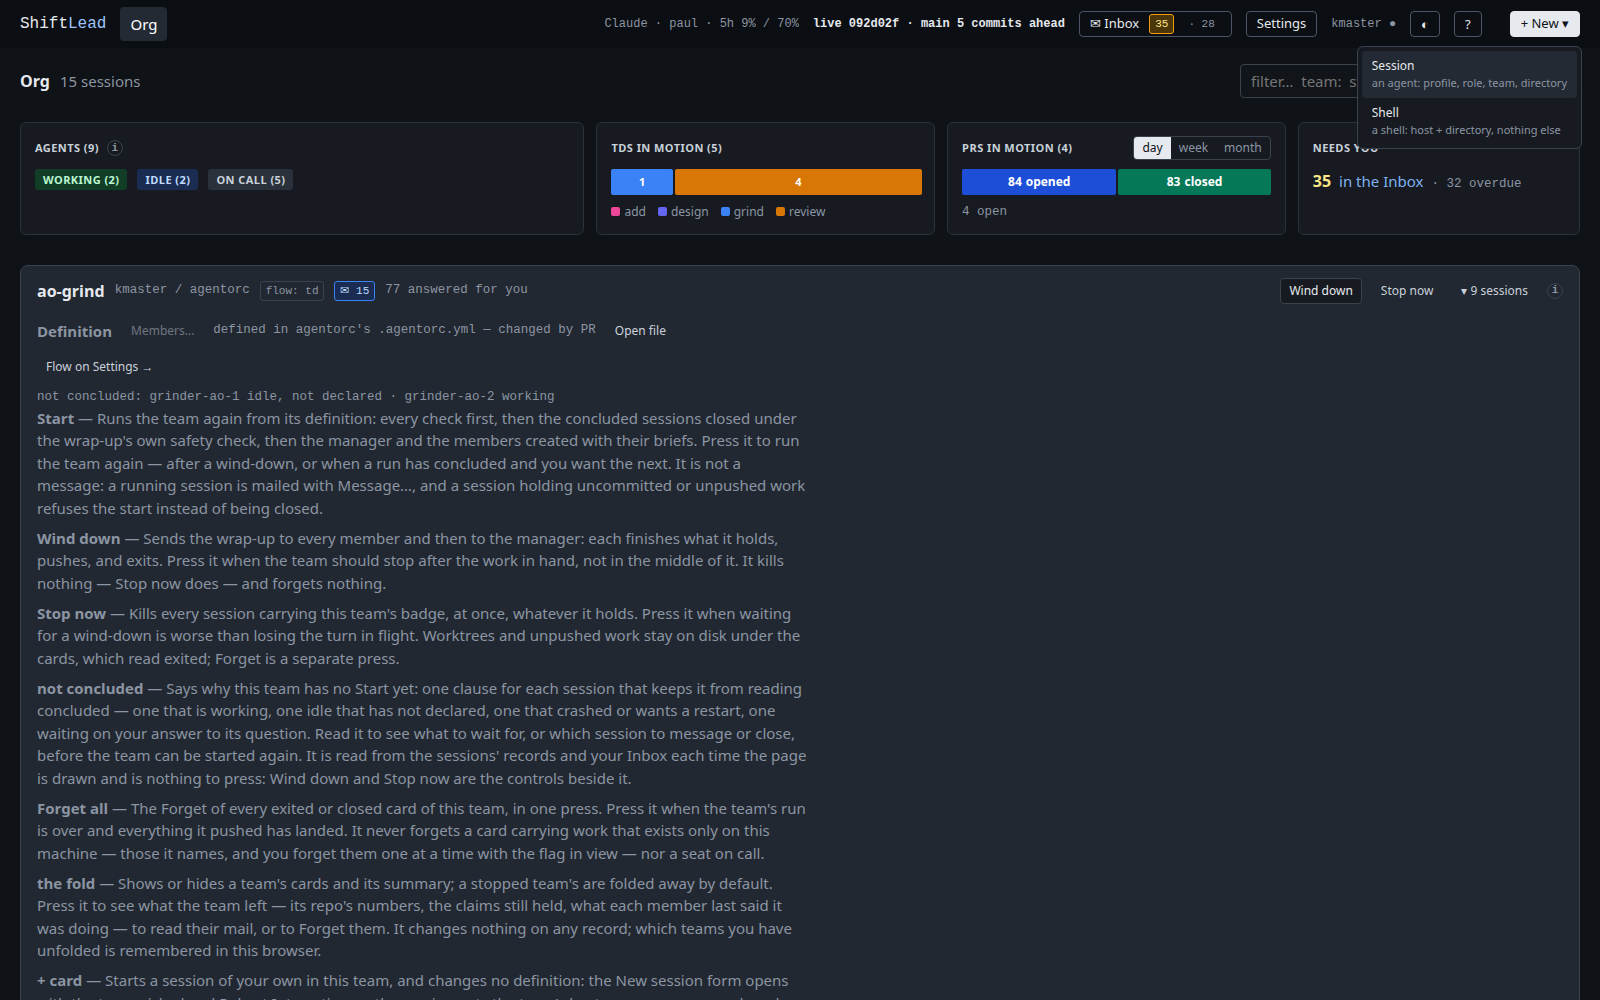
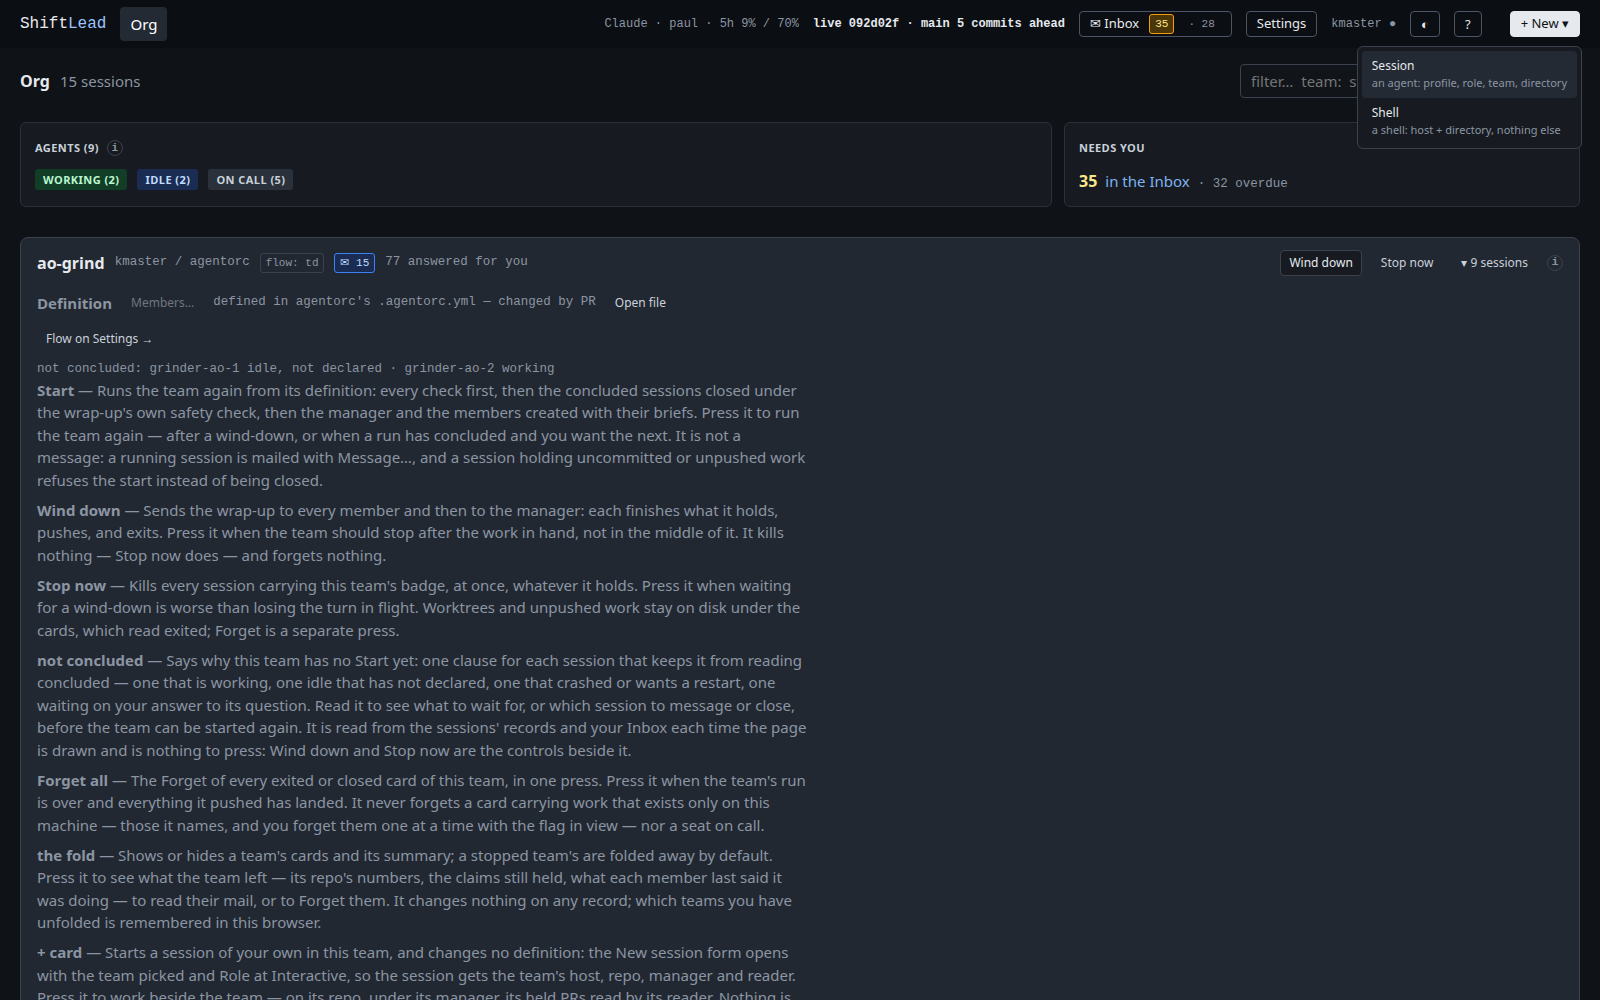
TD-418 round 2, TD-420: lane chips in the kind's colour, + card and Doing wording, rollup and summary trims; the PR counts that disagree split out

Changed region(s): [[0.0, 0.124, 1.0, 1.0], [0.9062, 0.155, 0.9375, 0.186]]

diff --git a/docs/mockups/reviews/2026-10-08-org-declutter.html b/docs/mockups/reviews/2026-10-08-org-declutter.html
@@ -30,6 +30,11 @@ h1 { font-size: 26px; margin: 0; text-wrap: balance; } h2 { font-size: 18px; mar
 .chg::before { counter-increment: c; content: counter(c); font: 600 14px var(--mono); color: var(--accent); }
 .chg b { display: block; } .chg p { margin: 2px 0 0; color: var(--muted); grid-column: 2; }
 .chg .t { grid-column: 2; }
+.chips { grid-column: 2; display: flex; gap: 14px; flex-wrap: wrap; margin: 8px 0 2px; padding: 10px 12px; background: #151b24; border-radius: 6px; }
+.cs { display: inline-flex; align-items: center; gap: 8px; color: #c9d1db; font-size: 13px; }
+.lc { font: 600 11px var(--mono); padding: 1px 6px; border-radius: 3px; border: 1px solid; color: #e3e8ef; }
+.lc.soft.pk { background: rgba(59,130,246,.22); border-color: rgba(59,130,246,.7); } .lc.solid.pk { background: #3b82f6; border-color: #3b82f6; color: #fff; }
+.lc.soft.df { background: rgba(99,102,241,.22); border-color: rgba(99,102,241,.7); } .lc.solid.df { background: #6366f1; border-color: #6366f1; color: #fff; }
 ul.obs { margin: 0; padding-left: 20px; display: grid; gap: 6px; } ul.obs li { max-width: 80ch; }
 .ask { background: var(--warn-bg); border: 1px solid var(--warn); border-radius: 6px; padding: 14px 18px; }
 .ask h2 { color: var(--warn); }
@@ -43,14 +48,14 @@ ul.obs { margin: 0; padding-left: 20px; display: grid; gap: 6px; } ul.obs li { m
 
   <section>
     <div class="tabs" role="tablist">
-      <button role="tab" id="t-after" aria-selected="true" data-img="2026-10-08-org-declutter-after.png" data-cap="After: one header row per team, aligned bars, no mine/command controls, lane counts on the member cards.">After</button>
+      <button role="tab" id="t-after" aria-selected="true" data-img="2026-10-08-org-declutter-after.png" data-cap="After: one header row per team, aligned bars, lane counts on the member cards, the rollup trimmed to Agents and Needs you while one team is live.">After</button>
       <button role="tab" id="t-before" aria-selected="false" data-img="2026-10-08-org-declutter-before.png" data-cap="Before: the live page as it stands.">Before</button>
       <button role="tab" id="t-open" aria-selected="false" data-img="2026-10-08-org-declutter-after-open.png" data-cap="After, with the team's i panel and the + New menu open: the definition (Members…, where it is defined, Open file, the flow link) and not concluded now live in the panel.">After, menus open</button>
       <button role="tab" id="t-afull" aria-selected="false" data-img="2026-10-08-org-declutter-after-full.png" data-cap="After, the whole page, the stopped teams included.">After, full page</button>
       <button role="tab" id="t-bfull" aria-selected="false" data-img="2026-10-08-org-declutter-before-full.png" data-cap="Before, the whole page.">Before, full page</button>
     </div>
     <div class="shot" style="margin-top:12px"><img id="shot" src="2026-10-08-org-declutter-after.png" alt="The Org page after the proposed changes"></div>
-    <div class="cap" id="cap">After: one header row per team, aligned bars, no mine/command controls, lane counts on the member cards.</div>
+    <div class="cap" id="cap">After: one header row per team, aligned bars, lane counts on the member cards, the rollup trimmed to Agents and Needs you while one team is live.</div>
   </section>
 
   <section>
@@ -62,27 +67,35 @@ ul.obs { margin: 0; padding-left: 20px; display: grid; gap: 6px; } ul.obs li { m
       <div class="chg"><span class="t"><b>Shell and + New session merge into + New ▾</b></span><p>One button with two choices, Session and Shell. A team's own sessions still start from its + card.</p></div>
       <div class="chg"><span class="t"><b>The team header fits on one row</b></span><p>The header keeps the name, host / repo, a <code>flow: td</code> chip (its stages in the tooltip, linked to Settings), the marks, Wind down, Stop now, the fold and the i. Dropped from the header: the second "9 sessions", the flow strip, and the flow dropdown (Settings already has the same picker per team). Members…, "defined in … changed by PR", Open file and <em>not concluded:</em> move into the i panel under a Definition line. <em>flow changed · Apply</em> stays on the header because it asks you to act.</p></div>
       <div class="chg"><span class="t"><b>✉ n shows folded or not</b></span><p>The team's unread total sits beside the flow chip in both states. TD-071 drew it only while folded; that rule is reversed.</p></div>
-      <div class="chg"><span class="t"><b>The lanes line leaves the repo facet</b></span><p>Its full text becomes an i on TECHNICAL DEBT. Each member card whose lane it is carries its count (<code>lane 18</code> on the grinders, <code>lane 0</code> on the designer), tinted amber when that member is out of work with entries in its lane.</p></div>
+      <div class="chg"><span class="t"><b>The lanes line leaves the repo facet</b></span><p>Its full text becomes an i on TECHNICAL DEBT. Each member card whose lane holds entries carries the count in the repo bar's colour for that kind: blue for pickable on a grinder, purple for design-first on the designer. The chip is a soft tint while the member is busy and turns solid when it is out of work with entries waiting, so the only loud chip is the one that needs attention. No chip at 0.</p>
+        <div class="chips" aria-label="chip states">
+          <span class="cs"><span class="lc soft pk">18</span> grinder, working</span>
+          <span class="cs"><span class="lc solid pk">18</span> grinder, out of work</span>
+          <span class="cs"><span class="lc soft df">9</span> designer, working</span>
+          <span class="cs"><span class="lc solid df">9</span> designer, out of work</span>
+        </div>
+        <p>The designer's count is its lane's, not the repo bar's: in this capture the bar shows 9 design-first, but none of them is in ao-grind's lanes (the lanes line read <em>0 design-first</em>), so the designer card shows no chip.</p></div>
+      <div class="chg"><span class="t"><b>The + card reads New session</b></span><p>"your session in ao-grind" becomes "New session". The team card is the context.</p></div>
+      <div class="chg"><span class="t"><b>TECHNICAL DEBT (56 OPEN) stays on one line</b></span><p>Section labels never wrap. Where the header runs out of room, the window picker drops to its own line on the right, not the label.</p></div>
+      <div class="chg"><span class="t"><b>Doing loses "the team's ao doing calls"</b></span><p>The label and the rows say it.</p></div>
+      <div class="chg"><span class="t"><b>The rollup drops what a lone team already says</b></span><p>While one team is live, the rollup keeps Agents and Needs you; its TDs-in-motion and PR facets come back with a second live team.</p></div>
+      <div class="chg"><span class="t"><b>A team with nothing live draws no summary</b></span><p>dc-grind's "no repo here" and "nothing claimed" boxes go; its header and Start stay.</p></div>
+      <div class="chg"><span class="t"><b>The summary's columns follow their content</b></span><p>Repo and Doing get more width, TDs in motion less (1.15 : 0.85 : 1.2). The cost: TD titles in that facet truncate sooner; the reference and holder stay whole.</p></div>
     </div>
   </section>
 
   <section>
-    <h2>Seen while capturing, not mocked</h2>
+    <h2>Split out</h2>
     <ul class="obs">
-      <li><b>Two PR counts that disagree.</b> The rollup reads 84 opened / 83 closed (93 / 92 in your screenshot) and the repo facet reads 84 / 83 here but 85 / 85 there. Whatever the rollup sums, the page should say what it covers.</li>
-      <li><b>The rollup repeats a lone live team.</b> With one team live, its TDs-in-motion and PR facets restate that team's own facets.</li>
-      <li><b>A stopped team draws empty facets.</b> dc-grind shows "no repo here" and "nothing claimed" in full-height boxes while stopped.</li>
-      <li><b>Equal columns waste the summary row.</b> TDs in motion is mostly empty when it holds a few rows, while Doing next to it is cut off.</li>
-      <li><b>The footnote under the page</b> ("Inside a team: the manager, then…") could move into the page's own help.</li>
+      <li><b>Two PR counts that disagree</b> is its own entry, TD-420: the rollup read 93 / 92 in your screenshot while the repo facet read 85 / 85, and the page does not say what the rollup sums.</li>
+      <li><b>The footnote under the page</b> ("Inside a team: the manager, then…") is left for the look-and-feel round.</li>
     </ul>
   </section>
 
   <section class="ask">
-    <h2>Open calls for you</h2>
+    <h2>Before the design PR</h2>
     <ol>
-      <li>Is <code>lane n</code> the right chip text on a card, or should it name the kind (<code>18 pickable</code> / <code>0 design-first</code>)?</li>
-      <li>Should the observations above join this round, or wait for the second look-and-feel round?</li>
-      <li>When flows get their own pages, the <code>flow: td</code> chip links to the flow's page instead of Settings. Nothing else in this round depends on it.</li>
+      <li>Anything on this round you'd change? If not, the design PR for §4.5 / §4.5a goes next, then a build entry.</li>
     </ol>
   </section>
 </div>

diff --git a/docs/mockups/reviews/org-declutter-src/after.js b/docs/mockups/reviews/org-declutter-src/after.js
@@ -8,8 +8,10 @@
     .bseg, .blk { min-height: 26px; height: 26px; font-weight: 600; }
     .flowchip { text-decoration: none; cursor: pointer; }
     .tgroup .ghead .foldmail { display: inline-block !important; }
-    .lanechip { margin-left: 6px; flex: none; } .sc .r2 .cline { min-width: 0; overflow: hidden; text-overflow: ellipsis; white-space: nowrap; } .frepo .fhead { flex-wrap: nowrap; }
-    .lanechip.warnish { color: var(--warn-fg); background: var(--warn-bg); border-color: var(--warn-line); }
+    .lanechip { margin-left: 6px; flex: none; } .sc .r2 .cline { min-width: 0; overflow: hidden; text-overflow: ellipsis; white-space: nowrap; } .facet .kind { white-space: nowrap; } .frepo .fhead > .seg { margin-left: auto; }
+    .lanechip { font-weight: 600; color: var(--fg); } .lanechip.k-pickable { background: color-mix(in srgb, var(--k-pickable) 22%, transparent); border-color: color-mix(in srgb, var(--k-pickable) 70%, transparent); } .lanechip.k-design { background: color-mix(in srgb, var(--k-design) 22%, transparent); border-color: color-mix(in srgb, var(--k-design) 70%, transparent); } .lanechip.solid.k-pickable { background: var(--k-pickable); color: var(--seg-fg); } .lanechip.solid.k-design { background: var(--k-design); color: var(--seg-fg); }
+    .tsum { grid-template-columns: minmax(0, 1.15fr) minmax(0, .85fr) minmax(0, 1.2fr); }
+    .rollup.lone { grid-template-columns: 2fr 1fr; }
     .defblock { display: flex; gap: 10px; align-items: center; flex-wrap: wrap; margin-bottom: 8px; }
     .newmenu { position: absolute; right: 18px; top: 46px; background: var(--card); border: 1px solid var(--border); border-radius: 6px; padding: 4px; display: flex; flex-direction: column; z-index: 9; min-width: 210px; }
     .newmenu a { padding: 6px 10px; color: var(--fg); text-decoration: none; font-size: var(--t-small); border-radius: 4px; }
@@ -67,8 +69,16 @@
     $$(`.tgroup[data-team="${team}"] .card`).forEach((c) => {
       const role = $('.cline', c)?.textContent || ''; const r2 = $('.r2', c); if (!r2) return;
       const out = /out of work/.test(role);
-      if (/^Grinder/.test(role)) ($('.grow', r2) || r2).insertAdjacentHTML('afterend', `<span class="badge lanechip${out && +pk ? ' warnish' : ''}" title="unheld entries in its lane">lane ${pk}</span>`);
-      if (/^Designer/.test(role)) ($('.grow', r2) || r2).insertAdjacentHTML('afterend', `<span class="badge lanechip${out && +df ? ' warnish' : ''}" title="design-first entries in its lane">lane ${df}</span>`);
+      if (/^Grinder/.test(role)) ($('.grow', r2) || r2).insertAdjacentHTML('afterend', (+pk ? `<span class="badge lanechip k-pickable${out ? ' solid' : ''}" title="${pk} pickable entries in its lane">${pk}</span>` : ''));
+      if (/^Designer/.test(role)) ($('.grow', r2) || r2).insertAdjacentHTML('afterend', (+df ? `<span class="badge lanechip k-design${out ? ' solid' : ''}" title="${df} design-first entries in its lane">${df}</span>` : ''));
     });
   });
+  // round 2: the + card says New session; Doing loses its gloss
+  $$('.plusgo .meta').forEach((m) => { m.textContent = 'New session'; });
+  $$('.fv[data-fv="doing"] .fhead > .meta').forEach((m) => m.remove());
+  // a team with nothing live draws no summary
+  $$('.tgroup[data-live="0"] .tsum').forEach((t) => t.remove());
+  // the rollup drops the TD and PR facets while one team is live: that team's own facets say it
+  const live = $$('.tgroup').filter((g) => +g.dataset.live > 0);
+  if (live.length === 1) { const fs = $$('.rollup > .facet'); fs[1]?.remove(); fs[2]?.remove(); $('.rollup')?.classList.add('lone'); }
 })();

diff --git a/docs/technical_debt.md b/docs/technical_debt.md
@@ -71,8 +71,9 @@ Fields: Owner = anchor | designer | grinder | paul | dev-cadence; Kind = build |
 | TD-415 | Tests do not pin the CLI half of `ao msg --pick <n> "text"` (#1282): the inbox's first-line read of a picked reply, the blank-words guard, and extra addressee words | Low | Open |
 | TD-416 | Tests do not pin the home's blank-words refusal of a picked answer followed by whitespace only (#1282) | Low | Open |
 | TD-417 | Tests do not pin the Focus rail's behaviour (#1286): put away, bring back, a glyph opening its card, the remembered choice — only the pure glyph list, CSS strings and template text are tested | Low | Open |
-| TD-418 | The Org page is cluttered: mine and show command runs out of place, the rollup's bars unaligned, a team header of three lines that says its session count and its flow twice, the lanes line in the repo facet | Medium | Open — mockup reviewed with Paul 2026-10-08; three calls open |
+| TD-418 | The Org page is cluttered: mine and show command runs out of place, the rollup's bars unaligned, a team header of three lines that says its session count and its flow twice, the lanes line in the repo facet | Medium | Open — mockup reviewed with Paul 2026-10-08, two rounds; his last look before the design PR |
 | TD-419 | A Focus attachment is never deleted: `~/.agentorc/attachments/<session>/` outlives the session's close and its Forget | Low | Open |
+| TD-420 | The Org rollup's PRs in motion disagrees with the team's repo facet (93 / 92 against 85 / 85 on 2026-10-08) and the page does not say what the rollup sums | Low | Open |
 
 ---
 
@@ -1235,13 +1236,13 @@ Done when: a hand-started unattended session shows when it will stop and stops t
 **Added:** 2026-10-08 (ao-paul, a UI/UX review with Paul)
 **Owner:** paul
 **Kind:** decision
-**Status:** Open — the mockup is up (`docs/mockups/reviews/2026-10-08-org-declutter.html`, published at https://claude.ai/artifact/B8ybKFKeu3n1n4PUzYgktP); Paul approved the seven changes below as recommended and has three calls open on the page. Next: a design PR for §4.5 / §4.5a (and the history), then a build entry.
-**Blocked by:** decision (paul) — the three calls on the mockup page: the lane chip's words, whether the observations join this round
+**Status:** Open — the mockup is up (`docs/mockups/reviews/2026-10-08-org-declutter.html`, published at https://claude.ai/artifact/B8ybKFKeu3n1n4PUzYgktP), two rounds with Paul on 2026-10-08: the seven changes below as recommended, then his round 2 (the lane chip in the kind's colour, the + card's words, the debt label on one line, Doing's gloss gone, and three of the observations taken in). Next, after his last look: a design PR for §4.5 / §4.5a (and the history), then a build entry.
+**Blocked by:** decision (paul) — the last look at round 2 on the mockup page
 **Location:** `src/agentorc/ui/templates/org.html`, `group_head.html`, `rollup.html`, `lanes_line.html`, `team_summary.html`, `card.html`, `base.html`; `static/app.css`, `app.js`; design §4.5, §4.5a
 
 **Why:** Paul's screenshot of the live Org page, 2026-10-08, and his list: the *mine* toggle and *show command runs* box sit in the title row though rarely used; the rollup's TDs-in-motion bar and PRs-in-motion blocks sit at different heights (the PR facet's header holds the window picker, and `.blk` is 30px against `.bar`'s 22px); the Agents facet's *in urgency order…* line is help text on the page; Shell and + New session are two top-bar buttons though a team's sessions start from its + card; the team header says *9 sessions* twice (meta and fold), the flow twice (strip and dropdown, and Settings has the same picker per team), and spends a line on a disabled Members…, its reason and Open file, and another on *not concluded:*; the team's ✉ n shows only while folded (TD-071), which reads as a bug; the lanes line (TD-361) sits mid repo facet though its counts are members' lanes.
 
-**Fix:** the seven changes on the mockup page — (1) `mine` and `kind:command` become filter words, both controls go; (2) every rollup and repo-facet header reserves the picker's height and bars and blocks share one height; (3) the Agents line becomes an i, and Needs you hides *answer needed* at 0; (4) Shell and + New session merge into **+ New ▾** (Session, Shell); (5) the team header is one row — name, place, a `flow: <name>` chip linked to Settings (to the flow's own page once flows have pages, Paul 2026-10-08), the marks, Wind down, Stop now, fold, i — with Members…, the definition's source, Open file and *not concluded:* in the i panel, and *flow changed · Apply* kept on the header; (6) ✉ n drawn folded or not; (7) the lanes line becomes an i on TECHNICAL DEBT, each member card carrying its lane's count, amber when out of work with entries in it. Seen and not yet decided: the rollup's PR counts disagree with the repo facet's without saying what they sum; the rollup restates a lone live team; a stopped team draws empty facets; the summary's equal columns. The capture and transform that made the shots are in `docs/mockups/reviews/org-declutter-src/`. **Done when** the design says the new shape and the build entry it names is open.
+**Fix:** the seven changes on the mockup page — (1) `mine` and `kind:command` become filter words, both controls go; (2) every rollup and repo-facet header reserves the picker's height and bars and blocks share one height; (3) the Agents line becomes an i, and Needs you hides *answer needed* at 0; (4) Shell and + New session merge into **+ New ▾** (Session, Shell); (5) the team header is one row — name, place, a `flow: <name>` chip linked to Settings (to the flow's own page once flows have pages, Paul 2026-10-08), the marks, Wind down, Stop now, fold, i — with Members…, the definition's source, Open file and *not concluded:* in the i panel, and *flow changed · Apply* kept on the header; (6) ✉ n drawn folded or not; (7) the lanes line becomes an i on TECHNICAL DEBT, each member card whose lane holds entries carrying the count in the repo bar's colour for its kind (pickable blue on a grinder, design-first purple on the designer), a soft tint while it works and solid when it is out of work with entries waiting, none at 0 — the lane's count, not the bar's. Round 2: (8) the + card reads *New session*; (9) a facet's label never wraps — the window picker drops to its own line first; (10) Doing loses *the team's ao doing calls*; (11) while one team is live the rollup keeps Agents and Needs you only; (12) a team with nothing live draws no summary; (13) the summary's columns 1.15 : 0.85 : 1.2. The PR counts that disagree are TD-420. The capture and transform that made the shots are in `docs/mockups/reviews/org-declutter-src/`. **Done when** the design says the new shape and the build entry it names is open.
 
 ## TD-419: A Focus attachment is never deleted: `~/.agentorc/attachments/<session>/` outlives the session's close and its Forget
 
@@ -1255,3 +1256,16 @@ Done when: a hand-started unattended session shows when it will stop and stops t
 **Why:** the `attach` RPC (TD-002) writes each file under `attachments/<session>/` and nothing removes it: not Close, not Forget, not the tick. 524K on 2026-10-08, one session's pastes, so nothing is pressing, but it grows without bound and §4.4 says nothing of its life.
 
 **Fix:** design the attachment's life in §4.4: the folder goes with the record's Forget, and the tick removes a file older than a bound (14 days suggested; a sent prompt may still name a file, so not at Close). Then a build entry.
+
+## TD-420: The Org rollup's PRs in motion disagrees with the team's repo facet (93 / 92 against 85 / 85 on 2026-10-08) and the page does not say what the rollup sums
+
+**Priority:** Low
+**Added:** 2026-10-08 (ao-paul, a UI/UX review with Paul, split from TD-418)
+**Owner:** grinder
+**Kind:** evaluation
+**Status:** Open
+**Location:** `src/agentorc/ui/templates/rollup.html` (`ro.prs`), the rollup's builder in `src/agentorc/ui/app.py`; `team_summary.html`'s pull requests block; design §4.5a *Org: rollup*
+
+**Why:** Paul's screenshot of 2026-10-08: the rollup's PRs in motion read 93 opened / 92 closed for the day while ao-grind's repo facet, the only live team's, read 85 / 85. A later capture the same evening read 84 / 83 in both. §4.5a says the rollup sums over every live team; with one live team the two should agree, or the page should say what else is counted (another repo, a stopped team's, a different window edge).
+
+**Fix:** find what the rollup sums that the facet does not (read both builders against §4.5a), then either make them agree or label the rollup's scope on the page. **Done when** the two numbers agree with one live team, or the difference is named where it is shown.
